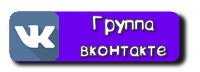
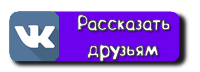
436534

Changed region(s): [[0.36, 0.1944, 0.87, 0.5278], [0.39, 0.6111, 0.84, 0.8611]]

diff --git a/index.js b/index.js
@@ -1279,13 +1279,9 @@ var big_message={
 		any_dialog_active=0;
 		anim.add_pos({obj:objects.big_message_cont,param:'y',vis_on_end:false,func:'easeInBack',val:['sy', 	450],	speed:0.05});
 		
-	},
-	
-	publish_vk: function() {
-		
-		vkBridge.send('VKWebAppShowWallPostBox', {"message": "Я одержал победу над опытным соперником!"});
-		
 	}
+	
+
 }
 
 var process_collisions=function() {
@@ -1614,6 +1610,7 @@ var main_menu = {
 		//устанавливаем фон
 		objects.bcg.texture=game_res.resources["bcg"].texture;
 
+
 		
 		this.start_time=game_tick;
 		
@@ -1741,7 +1738,7 @@ var main_menu = {
 			vkBridge.send('VKWebAppShowInviteBox');
 	},
 	
-	vk_group_down: function() {
+	vk_post_down: function() {
 		
         if (objects.main_buttons_cont.ready === false || any_dialog_active===1) {
 			gres.locked.sound.play();
@@ -1749,7 +1746,7 @@ var main_menu = {
 		}
 		
 		if (game_platform==='VK_WEB' || game_platform==='VK_MINIAPP')
-			vkBridge.send('VKWebAppJoinGroup', {"group_id": 59771306});
+			vkBridge.send('VKWebAppShowWallPostBox', {"message": "Я одержал победу над опытным соперником!"});
 	}
 	
 }
@@ -2654,16 +2651,24 @@ var user_data={
 			
 			//keep-alive сервис
 			setInterval(function()	{keep_alive()}, 40000);
-				
 
 			//это событие когда меняется видимость приложения
 			//document.addEventListener("visibilitychange", vis_change);
 					
 			//обновляем данные в файербейс
 			firebase.database().ref("players/"+my_data.uid).set({name:my_data.name, rating: my_data.rating,money: my_data.money, skin_id: my_data.skin_id, pic_url: my_data.pic_url, fp:0, tm:firebase.database.ServerValue.TIMESTAMP});
+								
+			//устанавливаем данные в попап
+			objects.popup_avatar.texture=objects.player_avatar.texture
+			objects.popup_rating_text.text=objects.player_rating_text.text;	
+			objects.popup_name_text.text=objects.player_name_text.text;	
 			
-			//данные загружены и можно нажимать кнопку
-			//main_menu.unblock();
+			//показываем попап с данными игрока
+			anim.add_pos({obj: objects.popup_card_cont,	param: 'y',	vis_on_end: true,	func: 'easeOutCubic',	val: [-300, 'sy'],	speed: 0.05	});
+			
+			setTimeout(function(){anim.add_pos({obj: objects.popup_card_cont,	param: 'y',	vis_on_end: true,	func: 'easeInCubic',	val: ['sy', -300],	speed: 0.05	});},3000);
+			
+			
 		})	
 	
 	}	
